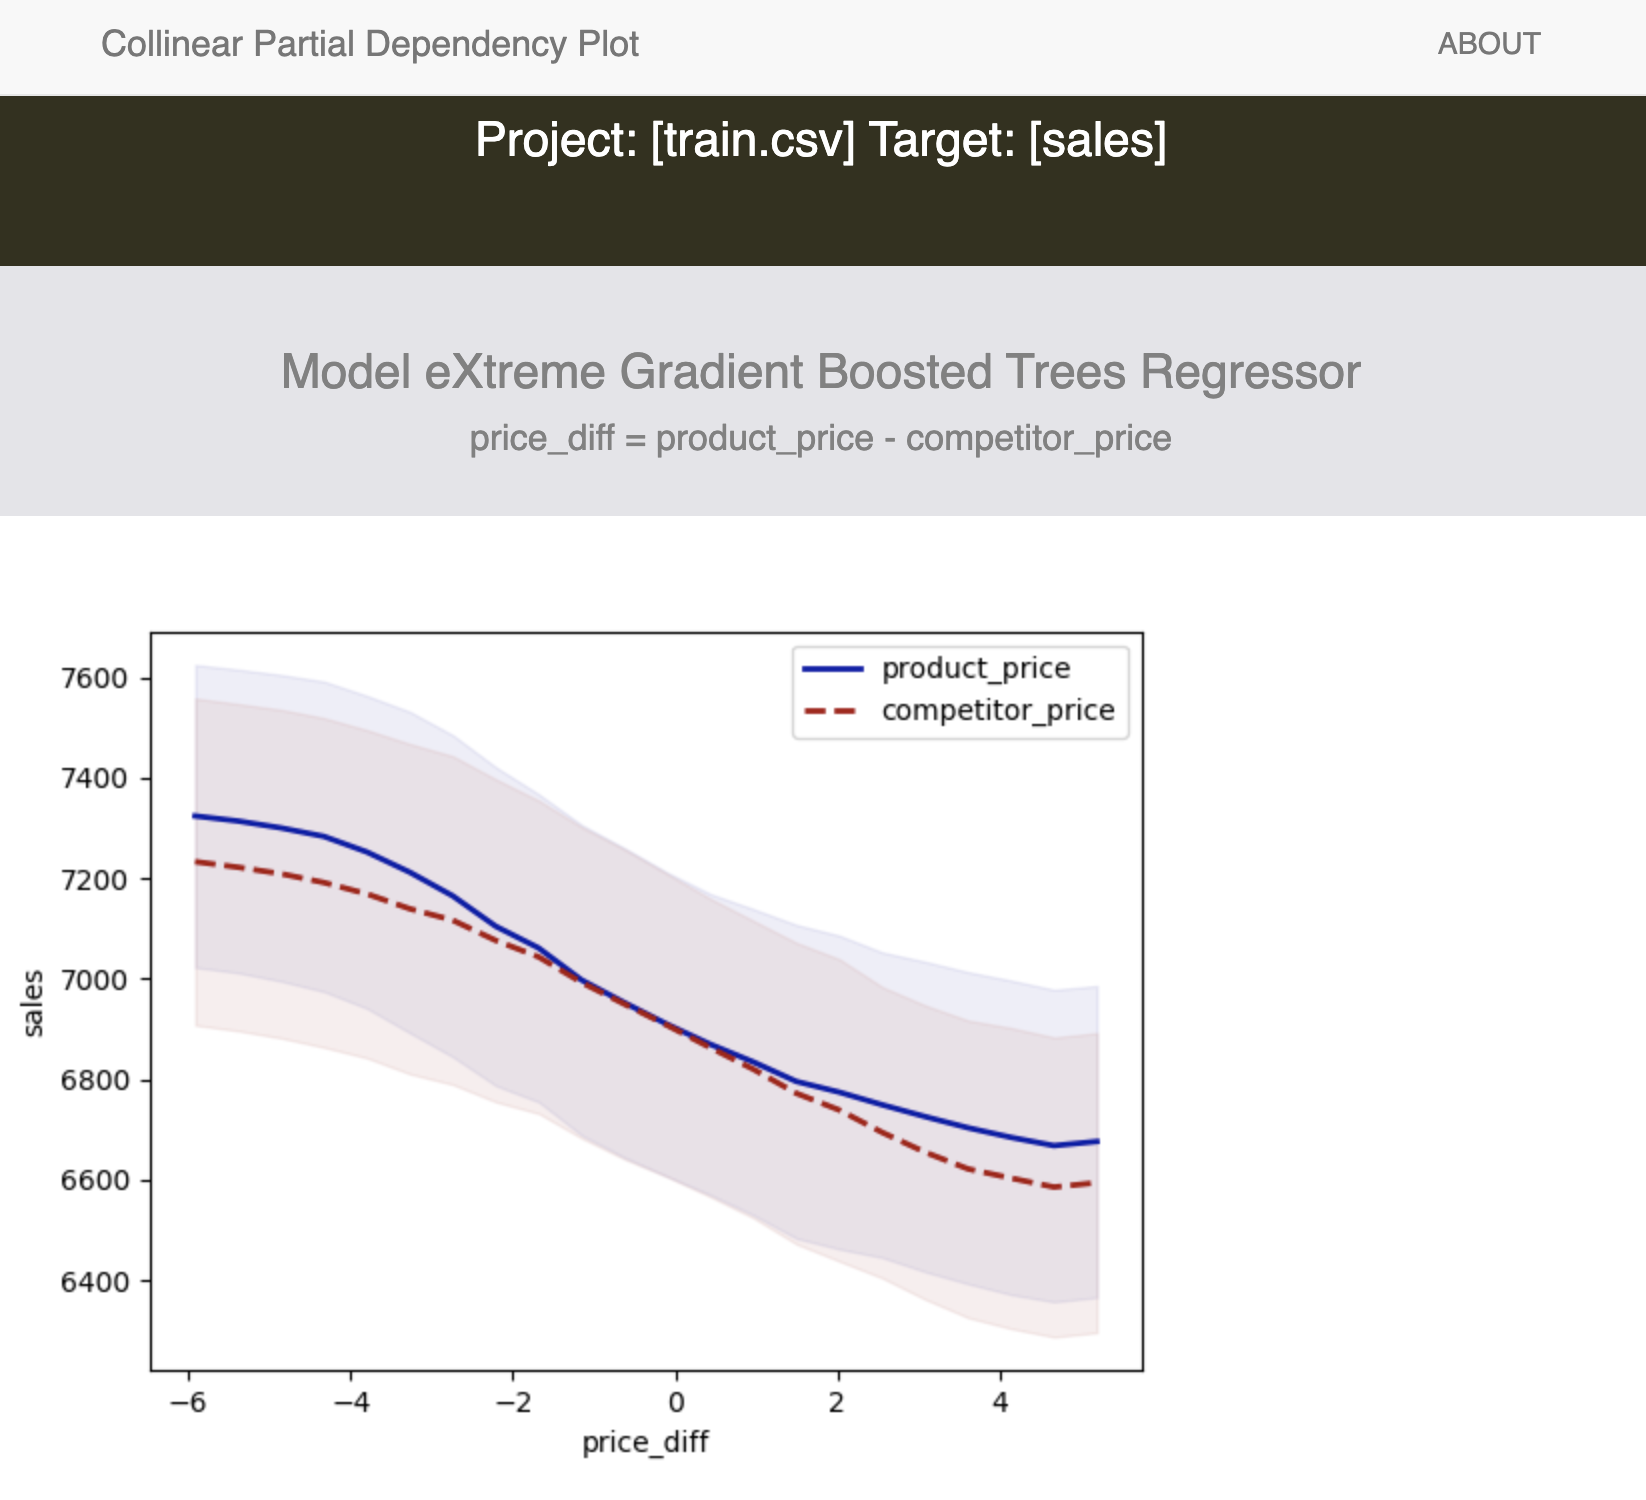
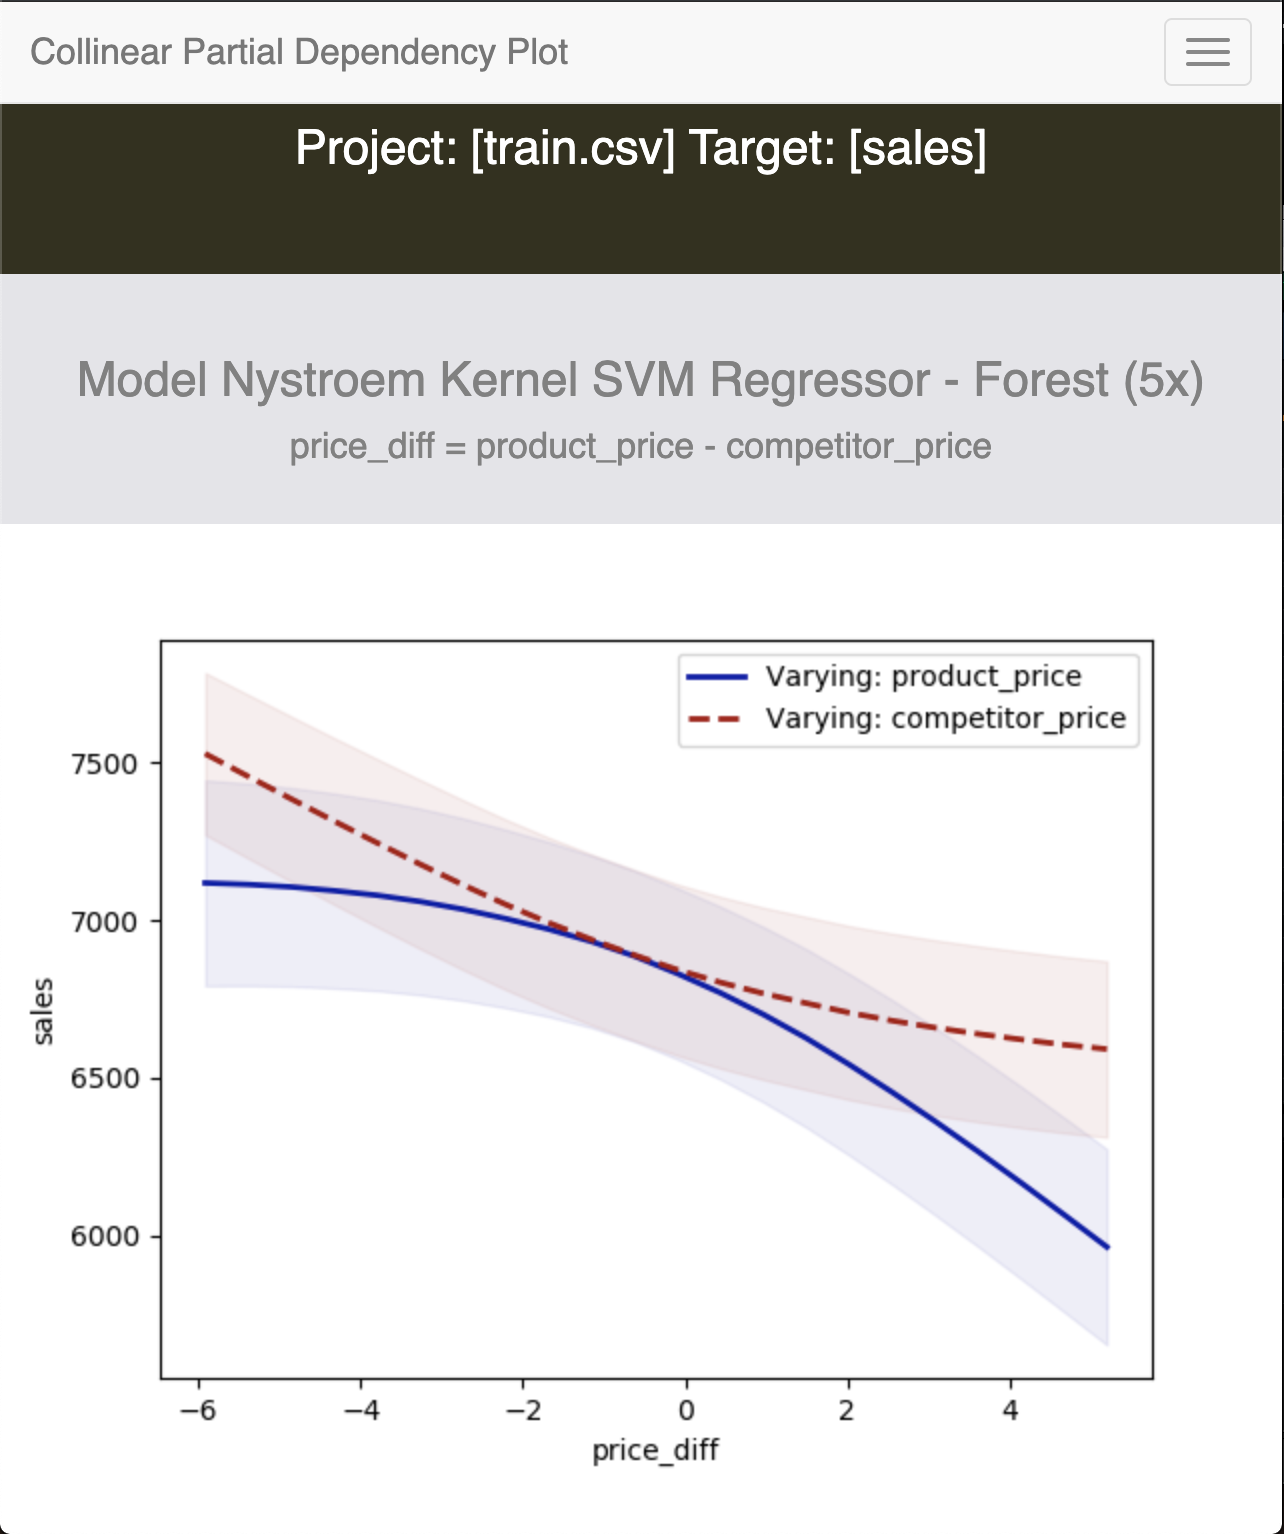
Changing visualisation to label series by the varying feature

diff --git a/src/PartialDependency.py b/src/PartialDependency.py
@@ -107,7 +107,7 @@ def generate_diff_col_pd_data(proj, mod, data, diffcol, colone, coltwo, configfi
     cleanup = ['rm', 'out.csv', 'datarobot_batch_scoring_main.log', 'XX_temp_data_for_scoring.csv']
     output = sp.check_output(cleanup, stderr=sp.STDOUT)
 
-    results[colone] = pdep
+    results[coltwo] = pdep
 
     """
      THEN WE RUN THE DATA AGAIN WHERE WE LOOK AT HOLDING coltwo FIXED
@@ -144,7 +144,7 @@ def generate_diff_col_pd_data(proj, mod, data, diffcol, colone, coltwo, configfi
     cleanup = ['rm', 'out.csv', 'datarobot_batch_scoring_main.log', 'XX_temp_data_for_scoring.csv']
     output = sp.check_output(cleanup, stderr=sp.STDOUT)
 
-    results[coltwo] = pdep
+    results[colone] = pdep
 
     return results
 
@@ -190,8 +190,8 @@ def generate_diff_col_pd_plot(proj, mod, data, diffcol, colone, coltwo, configfi
     plt1 = pdep[colone]
     plt2 = pdep[coltwo]
 
-    plt.plot( plt1[diffcol], plt1[TARGET], marker='', color='#1111AA', linewidth=2, label=colone)
-    plt.plot( plt2[diffcol], plt2[TARGET], marker='', color='#AA1111', linewidth=2, linestyle='dashed', label=coltwo)
+    plt.plot( plt1[diffcol], plt1[TARGET], marker='', color='#1111AA', linewidth=2, label=("Varying: "+colone) )
+    plt.plot( plt2[diffcol], plt2[TARGET], marker='', color='#AA1111', linewidth=2, linestyle='dashed', label=("Varying: "+coltwo))
     plt.fill_between( plt1[diffcol], plt1['lower'], plt1['upper'], color='#AAAADD', alpha=0.2)
     plt.fill_between( plt2[diffcol], plt2['lower'], plt2['upper'], color='#DDAAAA', alpha=0.2)
     plt.legend()

diff --git a/scripts/example.py b/scripts/example.py
@@ -8,8 +8,8 @@ import PartialDependency as partd
 # DEFINE THE PROJECT AND MODEL WE WANT TO USE
 
 PROJECT_ID = '5e3565db79dd6b1936771628'
-MODEL_ID = '5e35665d5143d8794be3888a'
-
+MODEL_ID = '5e35665d5143d8794be38896'
+ 
 # LOAD THE PROJECT AND MODEL
 proj = dr.Project.get(project_id=PROJECT_ID)
 mod =  dr.Model.get(PROJECT_ID, model_id=MODEL_ID)
